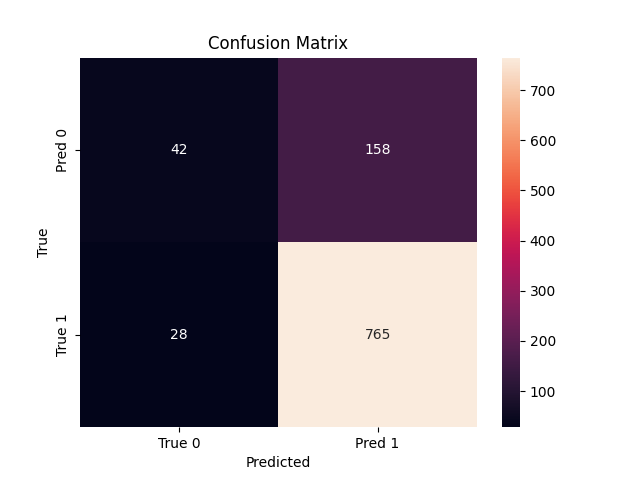
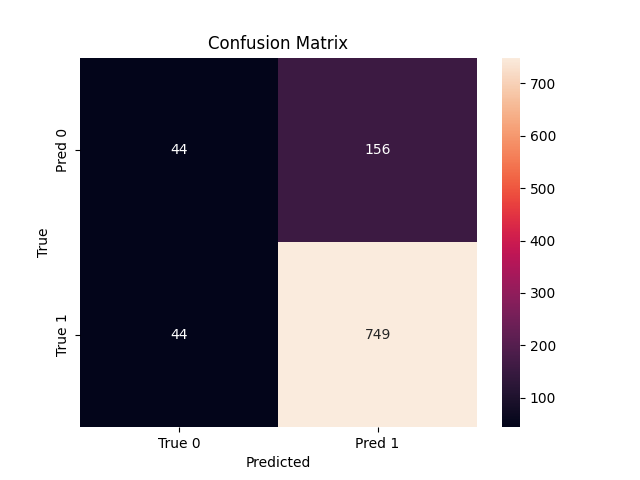
en extra model som ikke rigtig virker men bare godt at have

diff --git a/fl_backend/plotting/confusion_matrix_plot.py b/fl_backend/plotting/confusion_matrix_plot.py
@@ -1,25 +1,7 @@
-'''
-Ideen med dette plot er at vise et scatter plot.
-- Så vi plotter bare hvad 'marker' viser i sammenligning med hvad vores model predicter
-
-Input : En array med indexer af hvor det var korrekt(1) og hvor det var forkert (0) predictet
-ELLER 
-Input : En array af afstanden af hvor sikker modellen var på sin prediction ift hvad det rigtige marker var, så marker er vores regression linje? 
-
-x aksen = De rigtige værdier
-y aksen = Predictions
-
-Hver datapunkt  = En observation.
-- Så i vores MLP er det bare en række
-- Men hvis vi havde sliding windows, ville det så være ét view af det sliding window? 
-
-'''
-
 import matplotlib.pyplot as plt
 import numpy as np
-from sklearn.metrics import confusion_matrix
+from sklearn.metrics import confusion_matrix, precision_recall_curve
 import seaborn as sns
-
 
 def confusion_matrix_plot(y_true, y_pred):
 
@@ -42,7 +24,6 @@ def confusion_matrix_plot(y_true, y_pred):
     plt.ylabel("True")
     plt.title("Confusion Matrix")
 
-    #plt.show()
     plt.savefig("fl_backend/plotting/saved_plots/confusion_matrix.png")
     plt.close()
 
@@ -58,10 +39,11 @@ def confusion_matrix_plot(y_true, y_pred):
     print(accuracy)
 
 
-    #Kombination af precision OG recall, fordi hver for sig ser du kun de seperate eksempleer
-    #Men med kombinationen af begge, ser vi en mere præcis measurement af hvor mange predictions vi faktisk får korrekt.
-    #Så jo højere den er, jo bedere er modellen er til både at finde positives og undgå fejl
-
+    '''
+    - Kombination af precision OG recall, fordi hver for sig ser du kun de seperate eksempleer
+    - Men med kombinationen af begge, ser vi en mere præcis measurement af hvor mange predictions vi faktisk får korrekt.
+    - Så jo højere den er, jo bedere er modellen er til både at finde positives og undgå fejl
+    '''
     f1_score = 2 * (precision*recall)/(precision + recall)
 
     print("F1 score : ", f1_score)
@@ -97,4 +79,27 @@ How to interpret :
         - Vi kan SE at modellen er meget ubalanceret baseret på matricen
         - så derfor kan vi antage at det er datasettet der har for mange positives
         - så den er alt for god til at finde positives, men ikke gode til at finde negatives. 
+        - MEN siden vores model er til anomaly detection, er dette ikke nødvendigvis en dårlig ting.
+        - Ofte mener folk at, i dette scenarie, at false positives er bedere end false negatives
+        - Så hvis FN var meget høj, ville det være et STORT problem for os
 '''
+
+
+'''
+- Det her virker virker kun med probabilies, ikke 0/1 predictions
+- Men det skal vise trade-off mellem precision og recall
+- Det skal hjælpe dig med at adjust til threshhold til hvornår modellen predicter noget er en anomaly
+- Så HVIS :
+    - Recall er høj og precision er lav, skal threshholden være lavere
+    - Recall er lav og precision er høj, skal thredhold være højere
+    - Kurven skal så være meget høj, falde meget langsomt og dække et stort område
+'''
+def precision_recall_plot(y_true, y_pred):
+    precision, recall, thresholds = precision_recall_curve(y_true, y_pred)
+
+    plt.plot(recall, precision)
+    plt.xlabel("Recall")
+    plt.ylabel("Precision")
+    plt.title("Precision-Recall Curve")
+    plt.savefig("fl_backend/plotting/saved_plots/percision_recall_plot.png")
+    plt.close()

diff --git a/fl_backend/plotting/precision_recall_plot.py b/fl_backend/plotting/precision_recall_plot.py
@@ -1,0 +1,21 @@
+import matplotlib.pyplot as plt
+from sklearn.metrics import precision_recall_curve
+
+'''
+- Det her virker virker kun med probabilies, ikke 0/1 predictions
+- Men det skal vise trade-off mellem precision og recall
+- Det skal hjælpe dig med at adjust til threshhold til hvornår modellen predicter noget er en anomaly
+- Så HVIS :
+    - Recall er høj og precision er lav, skal threshholden være lavere
+    - Recall er lav og precision er høj, skal thredhold være højere
+    - Kurven skal så være meget høj, falde meget langsomt og dække et stort område
+'''
+def precision_recall_plot(y_true, y_pred):
+    precision, recall, thresholds = precision_recall_curve(y_true, y_pred)
+
+    plt.plot(recall, precision)
+    plt.xlabel("Recall")
+    plt.ylabel("Precision")
+    plt.title("Precision-Recall Curve")
+    plt.savefig("fl_backend/plotting/saved_plots/percision_recall_plot.png")
+    plt.close()

diff --git a/fl_backend/main.py b/fl_backend/main.py
@@ -8,7 +8,7 @@ from models.registry import create_model
 from tasks.registry import create_task
 from training.train import train_model
 from training.evaluate import evaluate_model
-from plotting.confusion_matrix_plot import confusion_matrix_plot
+from plotting.confusion_matrix_plot import confusion_matrix_plot, precision_recall_plot
 
 def main():
     config = CONFIG
@@ -53,6 +53,7 @@ def main():
     print(f"Evaluation results: {eval_results}")
 
     confusion_matrix_plot(eval_results["targets"], eval_results["preds"])
+    precision_recall_plot(eval_results["targets"], eval_results["preds"])
 
 if __name__ == "__main__":
     main()
